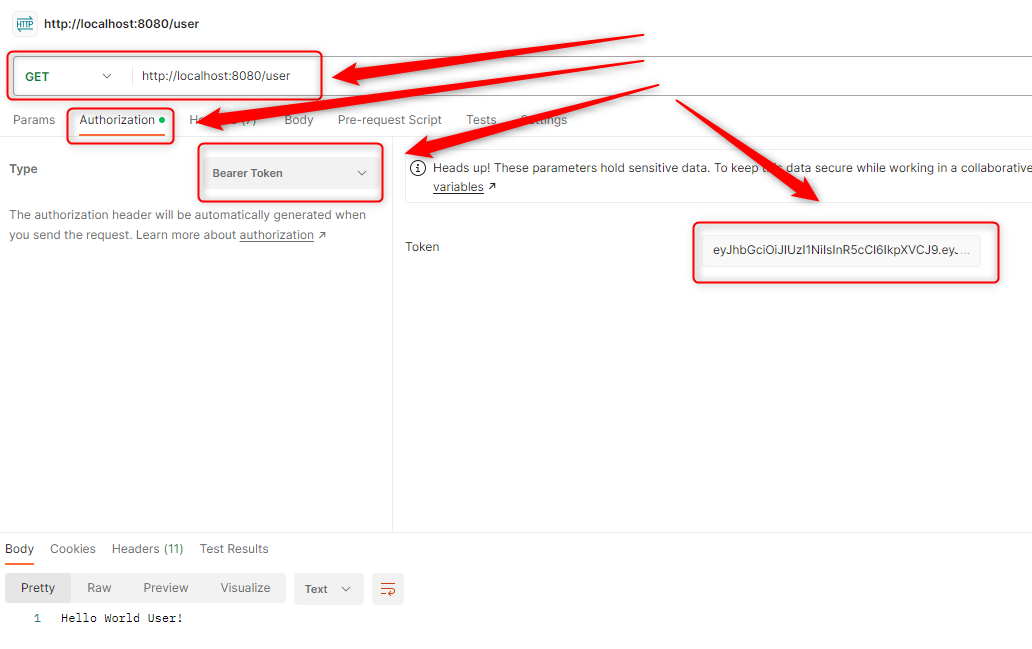
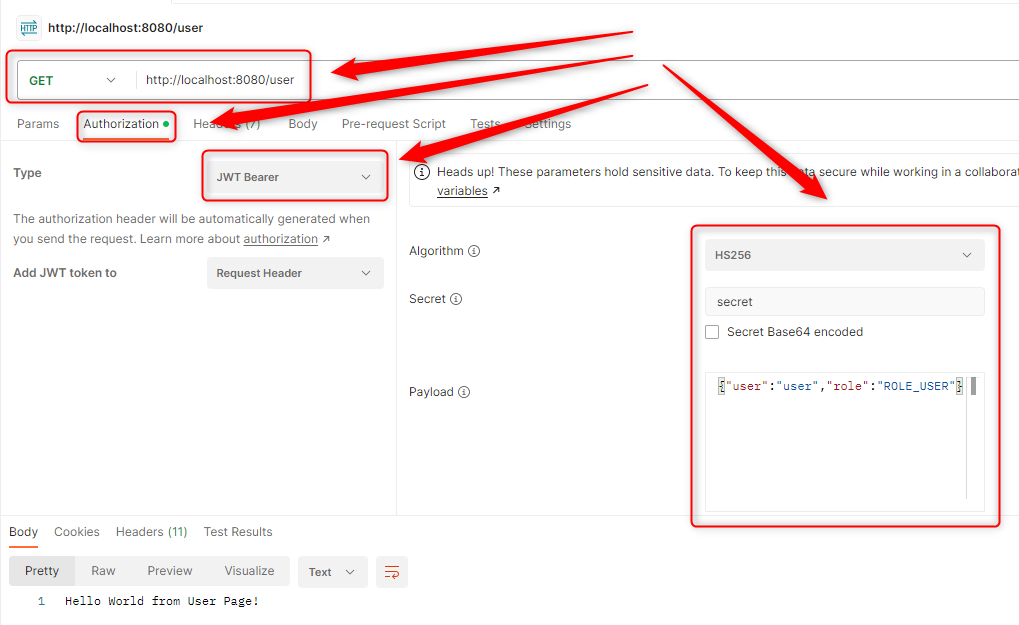
Init project

diff --git a/others/security/api/api-springsec-onereq-source-header-jwtbearer-authn-filter-securitycontextholder-authr-config/src/main/java/com/example/configs/SecurityConfig.java b/others/security/api/api-springsec-onereq-source-header-jwtbearer-authn-filter-securitycontextholder-authr-config/src/main/java/com/example/configs/SecurityConfig.java
@@ -9,19 +9,15 @@ import org.springframework.security.config.http.SessionCreationPolicy;
 import org.springframework.security.web.SecurityFilterChain;
 import org.springframework.security.web.authentication.UsernamePasswordAuthenticationFilter;
 
-import com.example.filters.BasicFilter;
 import com.example.filters.OAuth2Filter;
 
 @Configuration
 public class SecurityConfig {
     
-    private BasicFilter basicFilter; 
-
     private OAuth2Filter oAuth2Filter; 
     
     @Autowired
-    public SecurityConfig(BasicFilter basicFilter, OAuth2Filter oAuth2Filter) {
-        this.basicFilter = basicFilter;
+    public SecurityConfig(OAuth2Filter oAuth2Filter) {
         this.oAuth2Filter = oAuth2Filter;
     }
 
@@ -31,12 +27,10 @@ public class SecurityConfig {
             http
                 .authorizeHttpRequests((requests) -> requests
                     .requestMatchers("/").permitAll()
-                    .requestMatchers("/token").hasAnyRole("USER_TOKEN", "ADMIN_TOKEN")
                     .requestMatchers("/user").hasAnyRole("USER", "ADMIN")
                     .requestMatchers("/admin").hasAnyRole("ADMIN") 
                     .anyRequest().permitAll()              
                 )
-                .addFilterBefore(basicFilter, UsernamePasswordAuthenticationFilter.class)
                 .addFilterBefore(oAuth2Filter, UsernamePasswordAuthenticationFilter.class)
                 .csrf(Customizer.withDefaults())
                 .sessionManagement(session -> session

diff --git a/others/security/api/api-springsec-onereq-source-header-jwtbearer-authn-filter-securitycontextholder-authr-config/README.md b/others/security/api/api-springsec-onereq-source-header-jwtbearer-authn-filter-securitycontextholder-authr-config/README.md
@@ -4,11 +4,8 @@ USAGE
 Usage steps:
 1. Start application with `mvn spring-boot:run`
 1. Send GET request with Postman to URL `http://localhost:8080/`
-1. Get **User Token** with GET request in Postman (**Authorisation** type **Basic Auth** with credentials **user/user123**) to URL `http://localhost:8080/token`
-1. Send GET request with Postman (**Authorization** type **Token Bearer** and value **User Token**) to URL `http://localhost:8080/user`
-1. Get **Admin Token** with GET request in Postman (**Authorisation** type **Basic Auth** with credentials **admin/admin123**) to URL `http://localhost:8080/token`
-1. Send GET request with Postman (**Authorization** type **Token Bearer** and value **Admin Token**) to URL `http://localhost:8080/user`
-1. Send GET request with Postman (**Authorization** type **Token Bearer** and value **Admin Token**) to URL `http://localhost:8080/admin`
+1. Send GET request with Postman (**Authorization** type **JWT Token** and values: Algoritm **HS256**, Secret **secret**, and Payload **{"user":"user", "role":"ROLE_USER"} or {"user":"admin", "role":"ROLE_ADMIN"}**) to URL `http://localhost:8080/user`
+1. Send GET request with Postman (**Authorization** type **JWT Token** and values: Algoritm **HS256**, Secret **secret**, and Payload **{"user":"admin", "role":"ROLE_ADMIN"}**) to URL `http://localhost:8080/admin`
 1. Clean up environment:
     * Stop application with `ctrl + C`
 
@@ -20,14 +17,12 @@ Usage steps:
 
 ![My Image](image-4.png)
 
-![My Image](image-5.png)
-
 
 DESCRIPTION
 -----------
 
 ##### Goal
-The goal of this project is to present how to implement **Basic Authentication** and **OAuth2 Authorization** in **Java** application type **API** with usage **Spring Boot** framework. This application uses **Spring Security** dependencies. Authentication credentials are sent in header as "Authorization" type "Basic" and proceeded in Filter. **JWT Token** is returned as result of valid authentication. Using this JWT Token user can access secured resource. Authorization is done by Spring Security.
+The goal of this project is to present how to implement **authentication and authorization** in **Java** application type **API** with usage **Spring Boot** framework and **Spring Security** dependencies. Secured resources are displayed after **one request**. Credentials are sent as **Header JWT Token**. **Authentication** is done manually by developer in **filter** (if everything is ok then object **SecurityContextHolder** with user **roles** is created). **Authorization** is done automatically by Spring Security based on **cofiguration** (paths and roles).
 
 ##### Flow
 The following flow takes place in this project:
